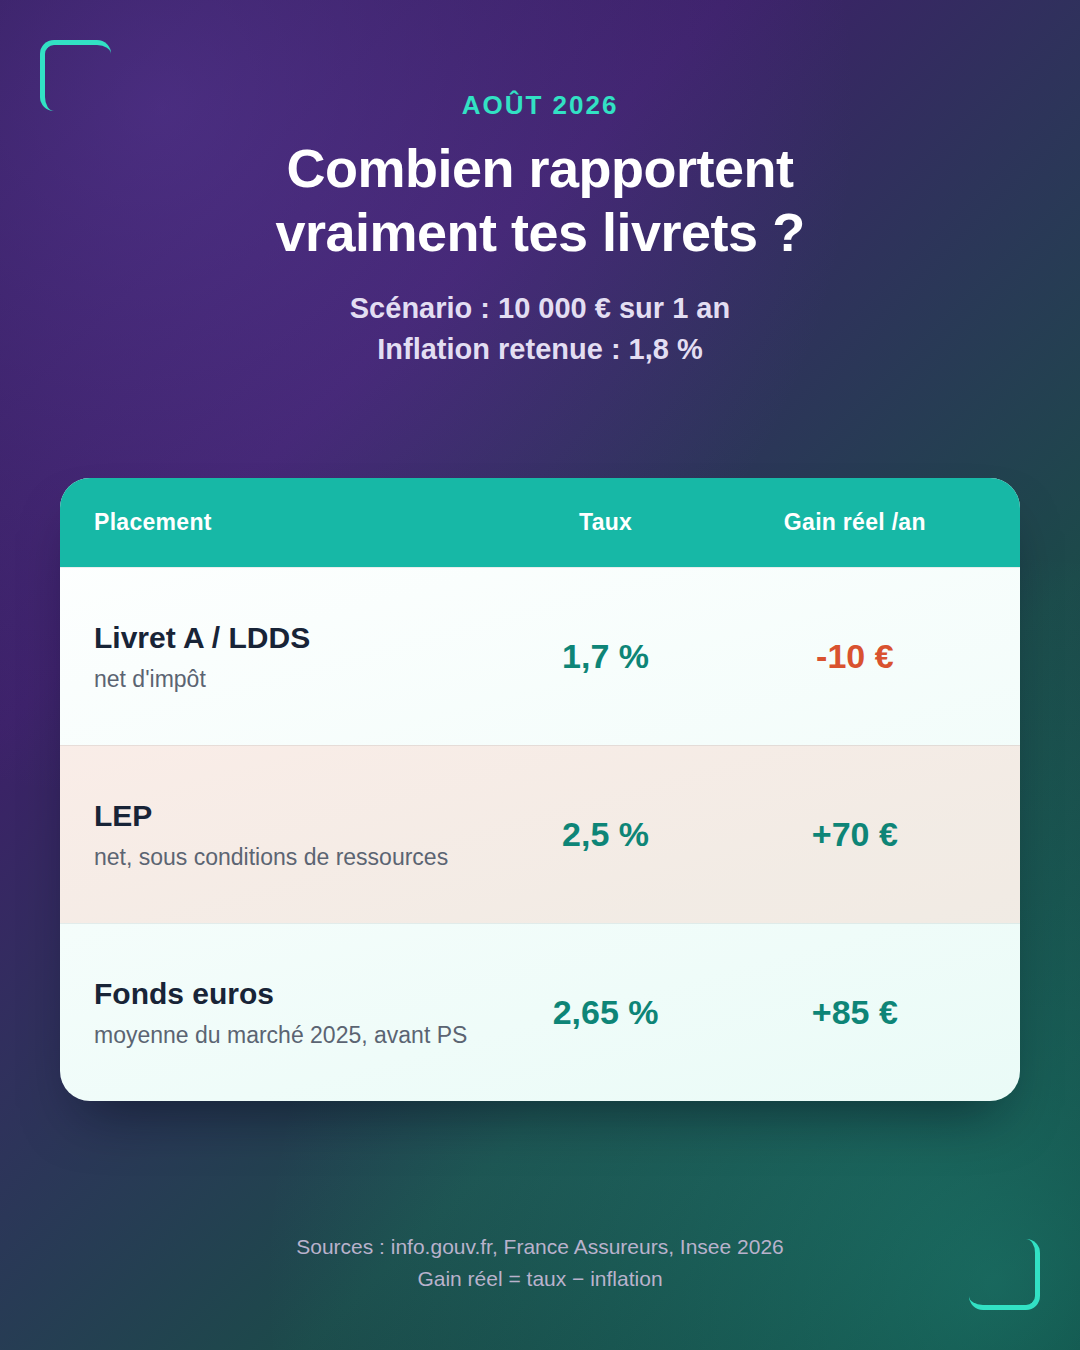
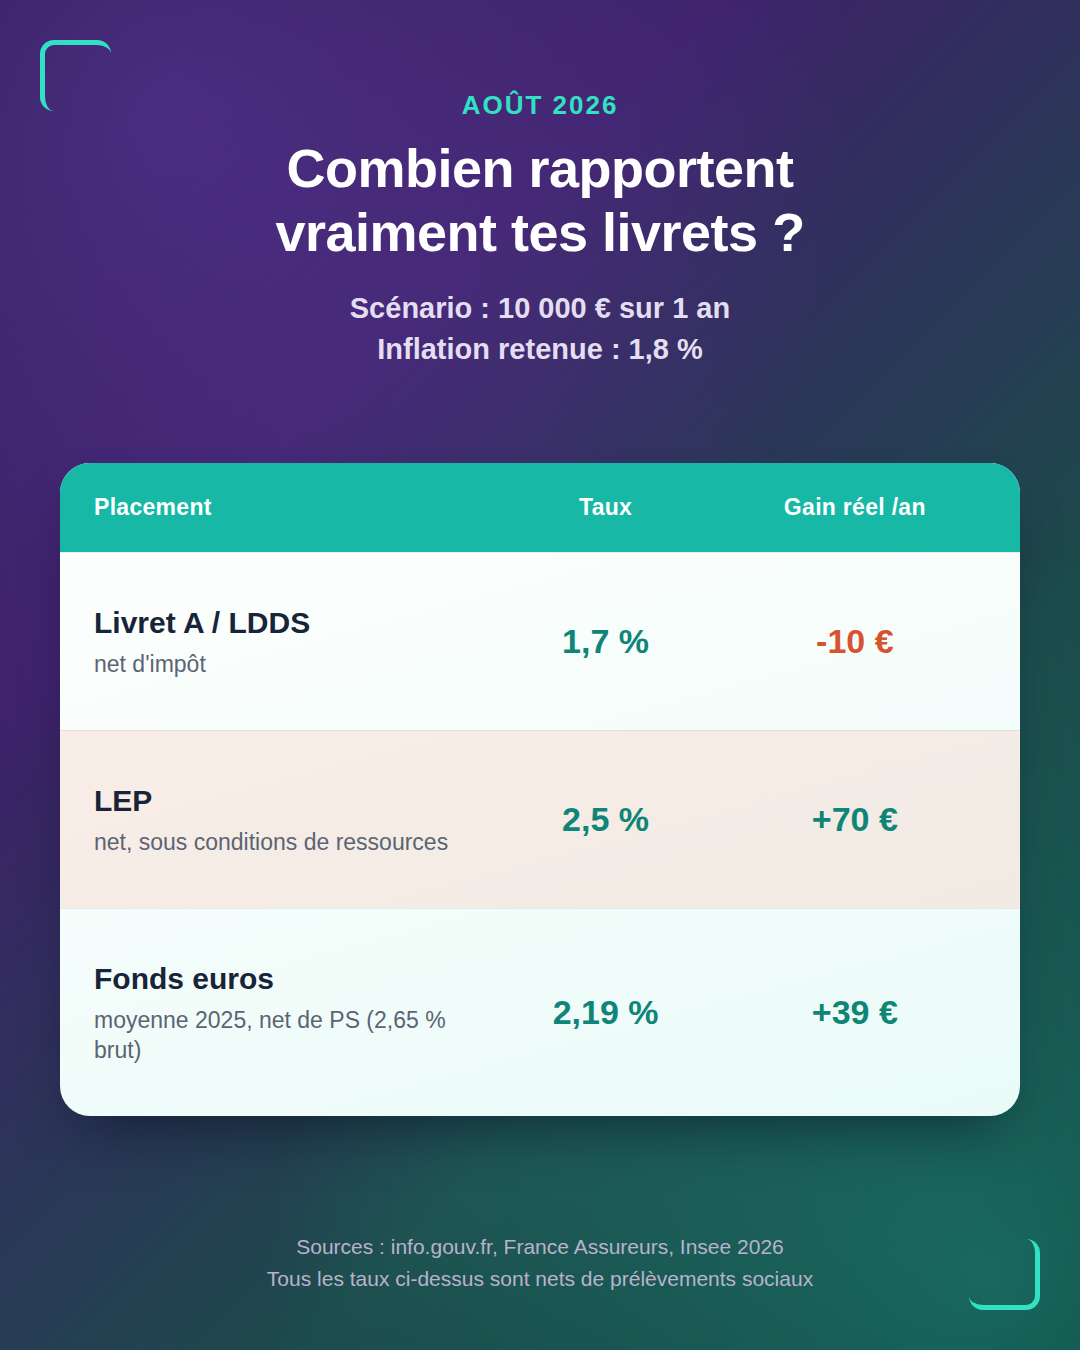
Corrige le comparatif rendement réel : fonds euros net de PS partout
Le tableau comparait un taux net (livrets) à un taux brut (fonds
euros), ce qui faussait la comparaison. Fonds euros passé de 2,65%
brut affiché à 2,19% net de prélèvements sociaux (17,2%, prélevés
à la source chaque année par l'assureur, même sans rachat) : gain
réel sur 10 000€ ramené de +85€ à +39€. Texte du post mis à jour
en conséquence pour expliquer le mécanisme (annuel et à la source,
contrairement aux UC taxées seulement au retrait).

diff --git a/2026-S33-1-post-rendement-reel.md b/2026-S33-1-post-rendement-reel.md
@@ -3,7 +3,13 @@ mécanique : repère chiffré + actualité commentée (cf. PLAYBOOK-POSTS.md, fo
 visuel à joindre en pièce jointe du post (pas dans le texte) : 2026-S33-1-rendement-reel-36a6.png
 sources vérifiées par recherche web le 2026-08-12 : Livret A/LDDS 1,7% et LEP 2,5% au
 01/08/2026 (info.gouv.fr, lafinancepourtous.com) ; fonds euros moyenne marché 2025 à
-2,6-2,65% (France Assureurs / ACPR) ; inflation prévisionnelle Insee 2026 ~1,8%.
+2,6-2,65% brut (France Assureurs / ACPR) ; inflation prévisionnelle Insee 2026 ~1,8%.
+Fonds euros affiché net des 17,2% de prélèvements sociaux (prélevés à la source
+chaque année par l'assureur, y compris sans rachat — contrairement aux UC, taxées
+seulement au retrait) : 2,65% brut → 2,19% net de PS, soit +39€ de gain réel sur
+10 000€ au lieu de +85€ en brut. L'impôt sur le revenu (non inclus ici) ne
+s'applique qu'au retrait, selon l'ancienneté du contrat. AV exclue de la hausse de
+CSG 2026 (17,2% maintenu, vs 18,6% pour PER/PEA/comptes-titres).
 
 Rappel opérationnel (cf. échange du 2026-08-12) : le format seul ne suffira pas si le
 post n'est pas amorcé. Avant de publier, prévenir 8-10 contacts réels pour un
@@ -23,9 +29,9 @@ Le Livret A et le LDDS sont totalement exonérés d'impôt et de prélèvements 
 
 Le LEP (sous conditions de ressources) reste le seul placement réglementé qui protège vraiment ton pouvoir d'achat.
 
-Le fonds euros affiche un meilleur taux — mais il supporte chaque année 17,2 % de prélèvements sociaux sur les gains, avant même l'impôt sur le revenu selon l'ancienneté du contrat. Son rendement réel net est donc inférieur au taux affiché.
+Le fonds euros affiche souvent 2,65 % de taux brut. Mais contrairement aux livrets (déjà nets), il supporte chaque année 17,2 % de prélèvements sociaux — prélevés à la source par l'assureur sur les intérêts, même si tu ne retires rien. Une fois net de ça, ses 2,65 % tombent à 2,19 %. Et il reste encore l'impôt sur le revenu à régler au retrait, selon l'ancienneté du contrat.
 
-Le vrai enjeu n'est pas "où mettre son argent au meilleur taux". C'est : combien j'en garde disponible en sécurité, et le reste, comment je le fais vraiment travailler.
+Le vrai enjeu n'est pas "où mettre son argent au meilleur taux affiché". C'est : combien j'en garde disponible en sécurité, et le reste, comment je le fais vraiment travailler.
 
 Tu as combien de mois de charges sur tes livrets aujourd'hui ?
 
